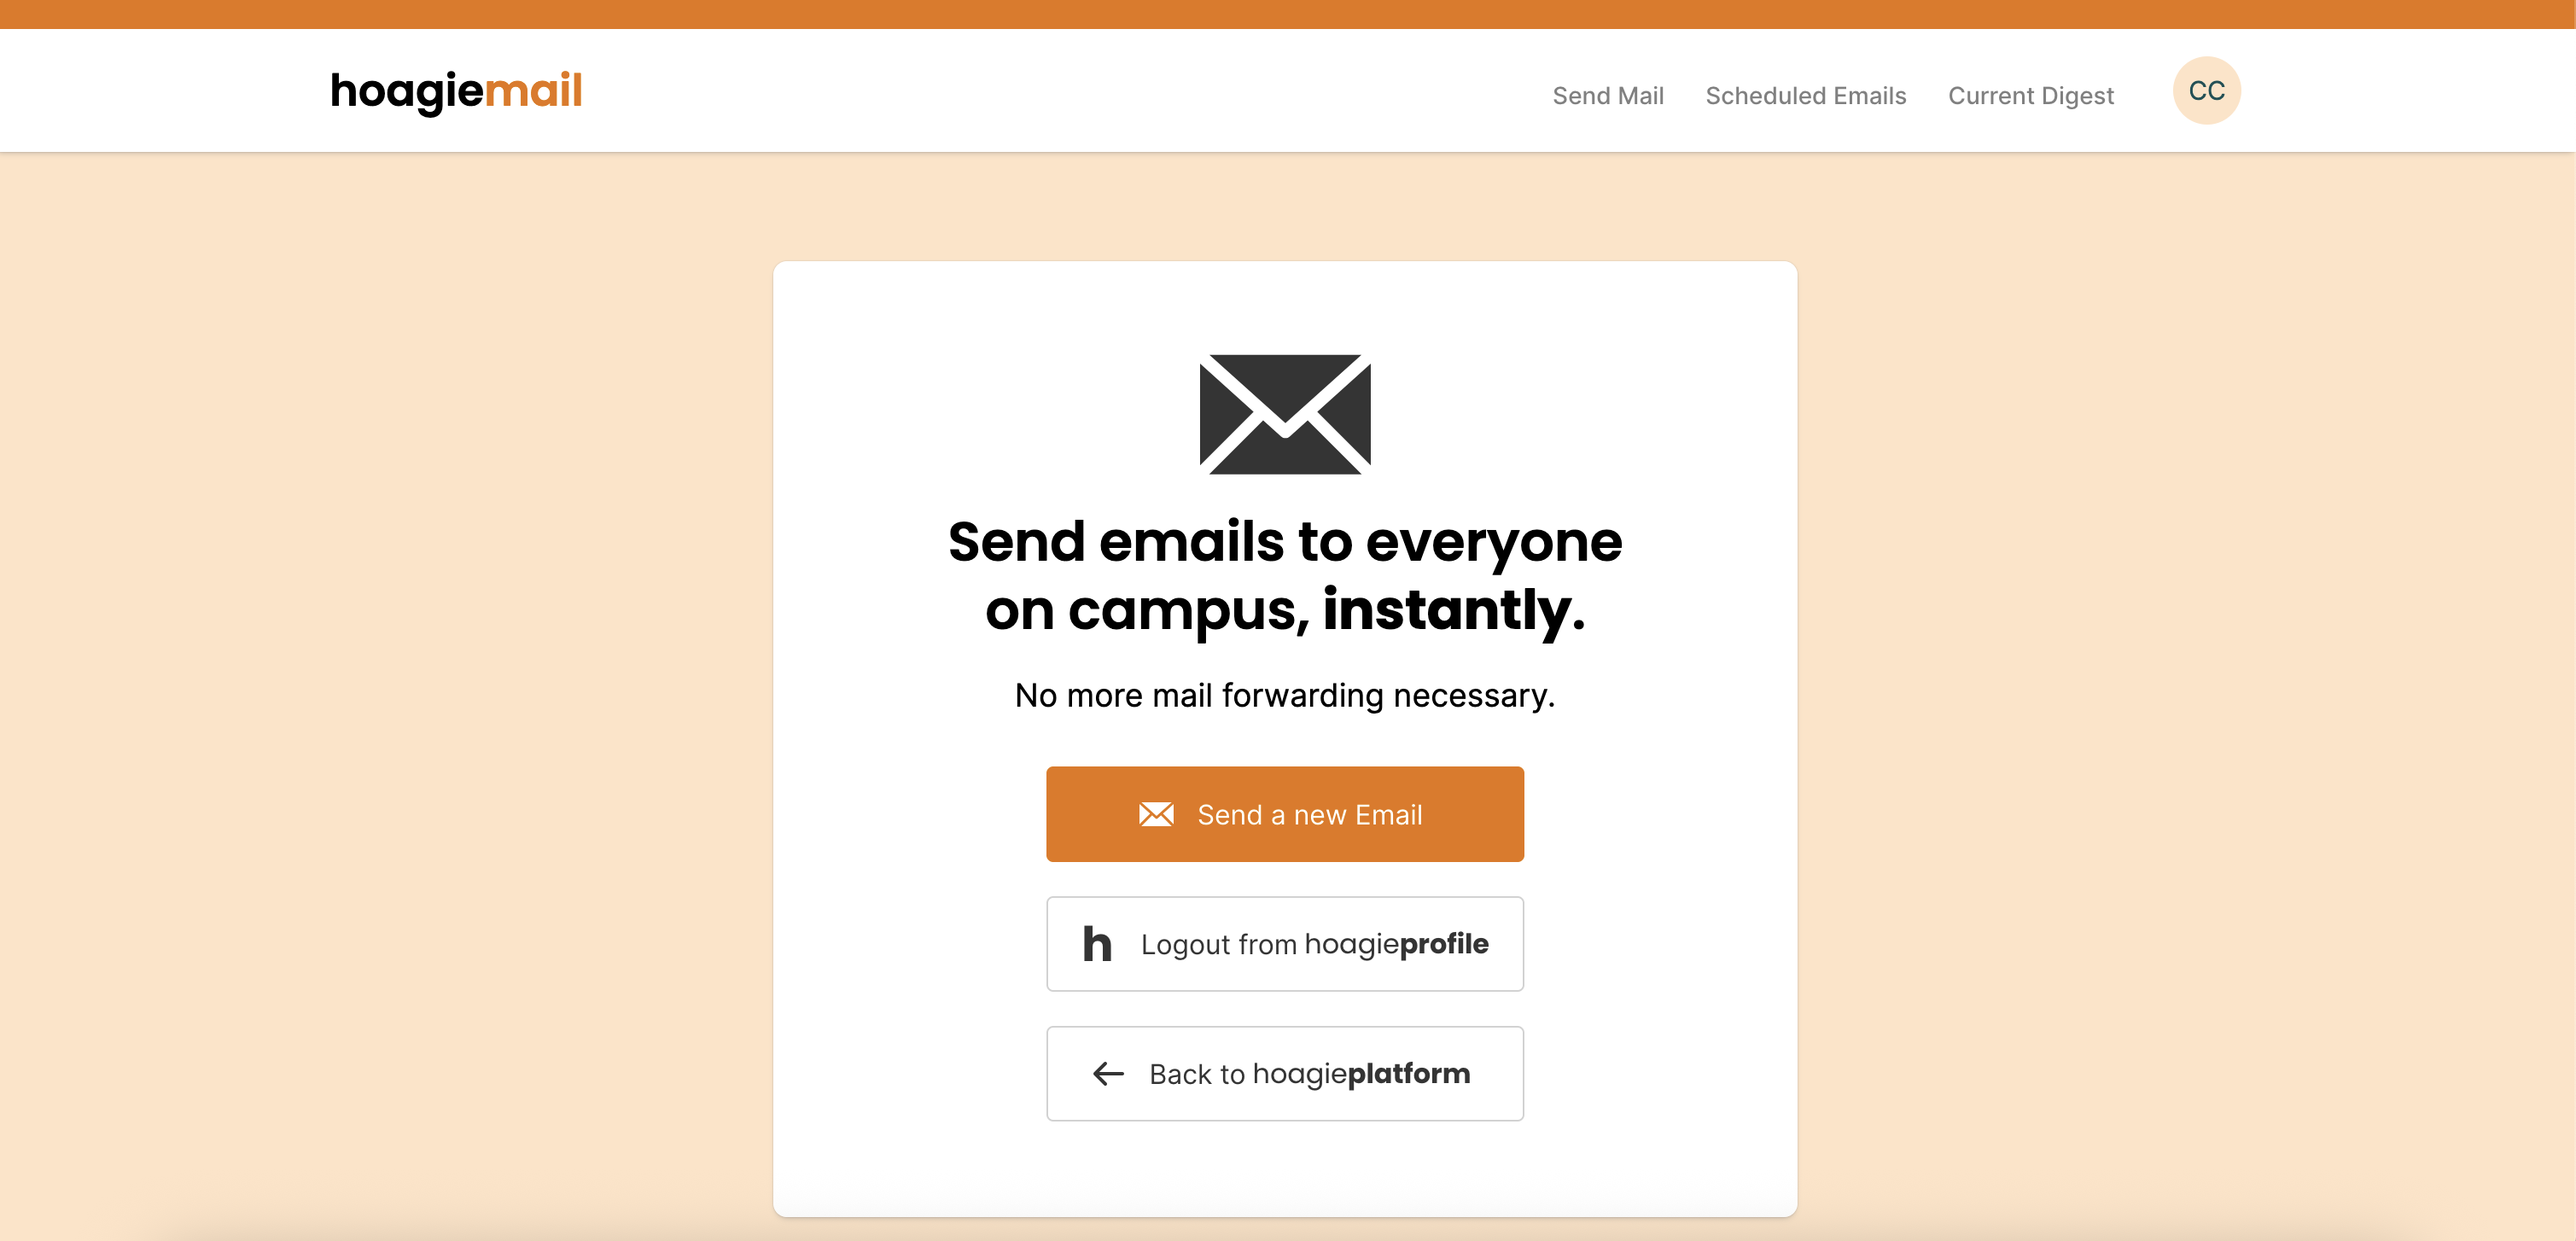
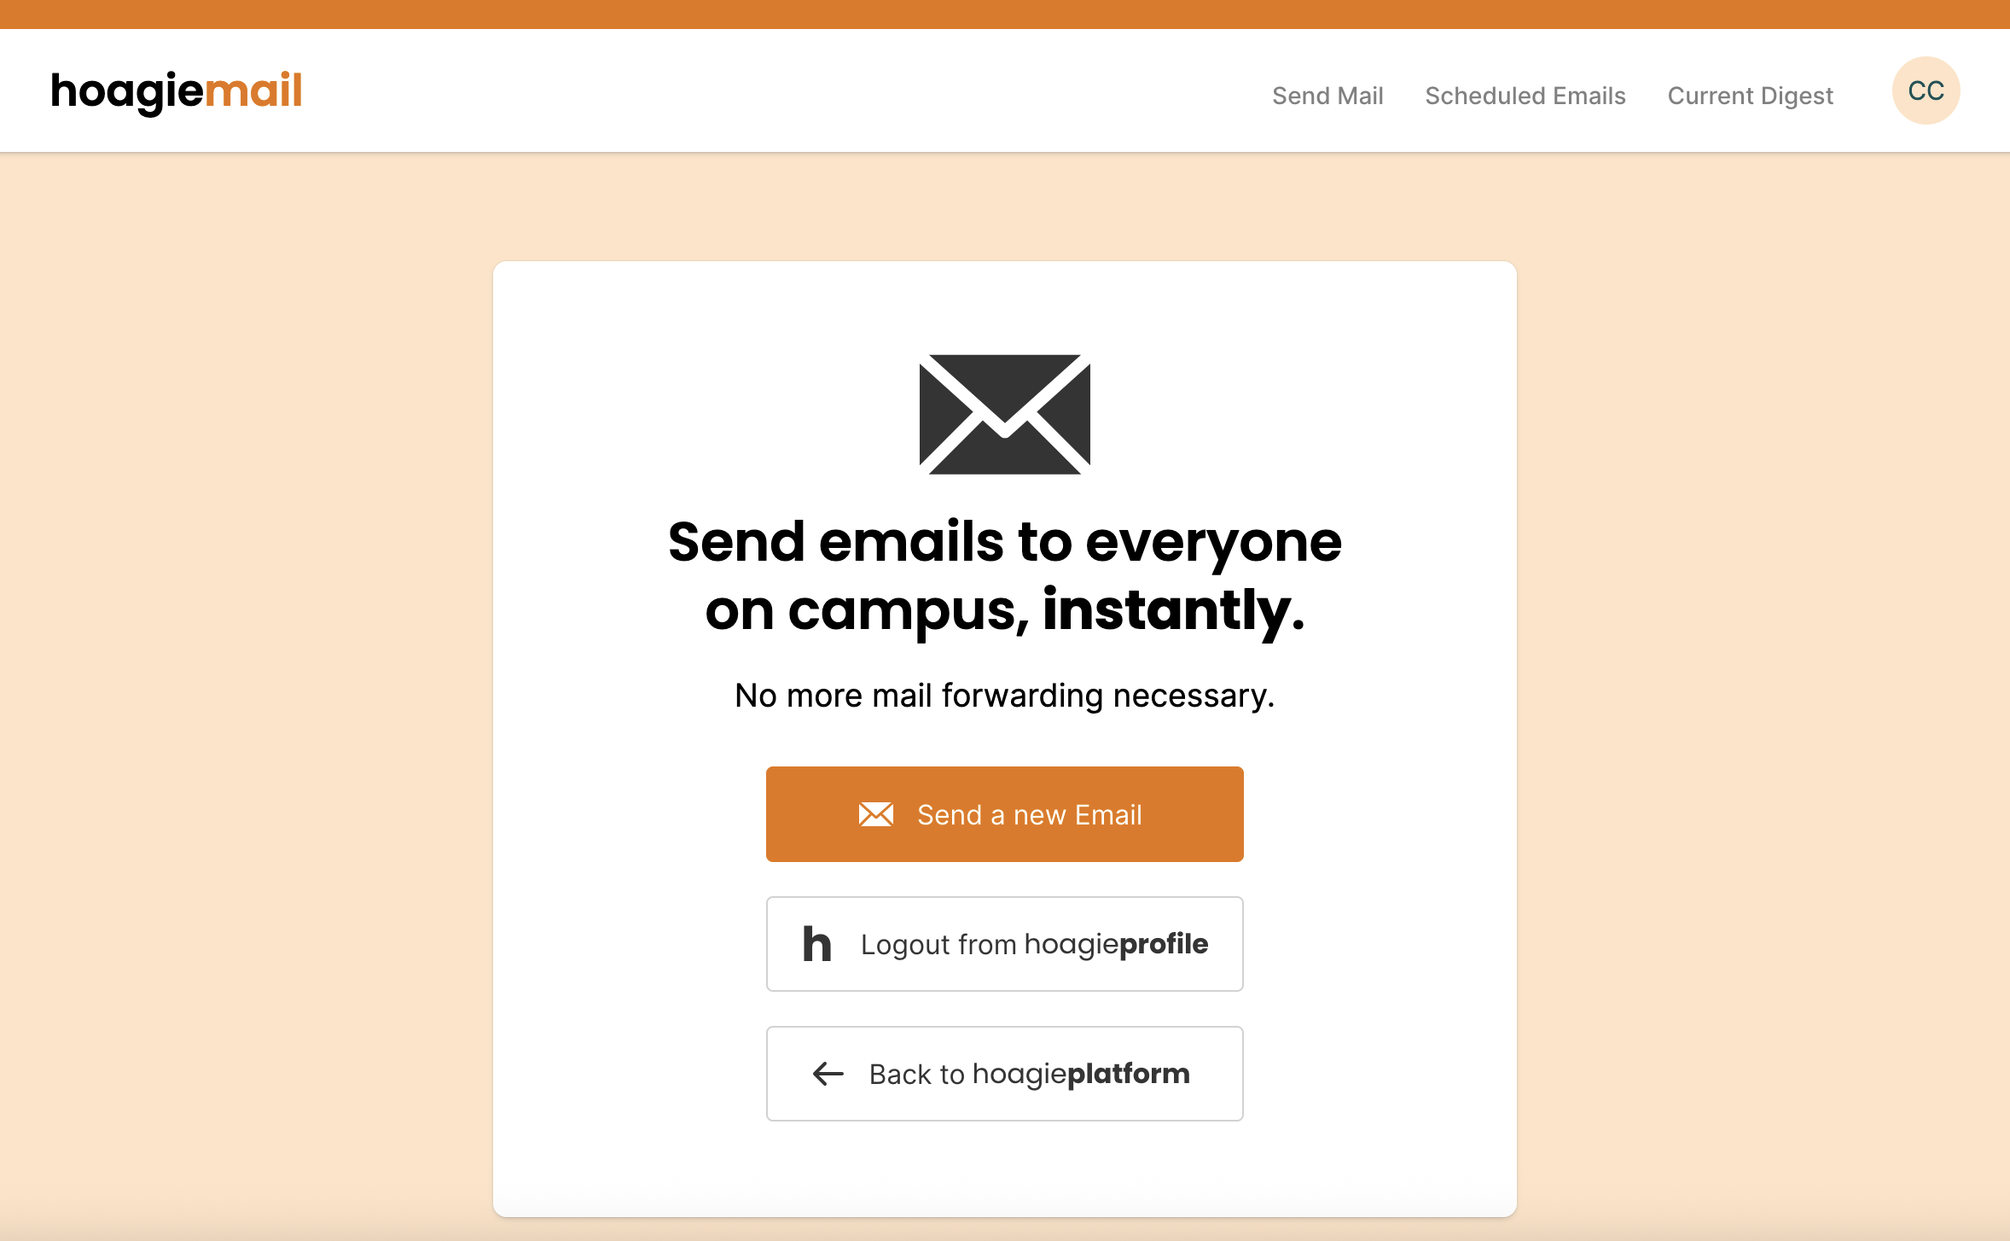
fixed links

diff --git a/src/pages/archive.js b/src/pages/archive.js
@@ -170,16 +170,8 @@ const ArchivePage = ({ location, data }) => {
             <tbody>
               {projects.length > 0 &&
                 projects.map(({ node }, i) => {
-                  const {
-                    date,
-                    github,
-                    external,
-                    ios,
-                    android,
-                    title,
-                    tech,
-                    company,
-                  } = node.frontmatter;
+                  const { date, github, external, ios, android, title, tech, company } =
+                    node.frontmatter;
                   return (
                     <tr key={i} ref={el => (revealProjects.current[i] = el)}>
                       <td className="overline year">{`${new Date(date).getFullYear()}`}</td>
@@ -204,7 +196,11 @@ const ArchivePage = ({ location, data }) => {
                       <td className="links">
                         <div>
                           {external && (
-                            <a href={external} aria-label="External Link">
+                            <a
+                              href={external}
+                              target="_blank"
+                              rel="noopener noreferrer"
+                              aria-label="External Link">
                               <Icon name="External" />
                             </a>
                           )}

diff --git a/src/pages/UGII.js b/src/pages/UGII.js
@@ -196,7 +196,11 @@ const ArchivePage = ({ location, data }) => {
                       <td className="links">
                         <div>
                           {external && (
-                            <a href={external} aria-label="External Link">
+                            <a
+                              href={external}
+                              target="_blank"
+                              rel="noopener noreferrer"
+                              aria-label="External Link">
                               <Icon name="External" />
                             </a>
                           )}

diff --git a/src/components/menu.js b/src/components/menu.js
@@ -266,7 +266,7 @@ const Menu = () => {
               </ol>
             )}
 
-            <a href="/resume.pdf" className="resume-link">
+            <a href="/resume.pdf" className="resume-link" target="_blank" rel="noopener noreferrer">
               Resume
             </a>
           </nav>

diff --git a/src/components/sections/hero.js b/src/components/sections/hero.js
@@ -84,7 +84,7 @@ const Hero = () => {
     </>
   );
   const five = (
-    <a className="email-link" href="/resume.pdf">
+    <a className="email-link" href="/resume.pdf" target="_blank" rel="noopener noreferrer">
       Resume
     </a>
   );
